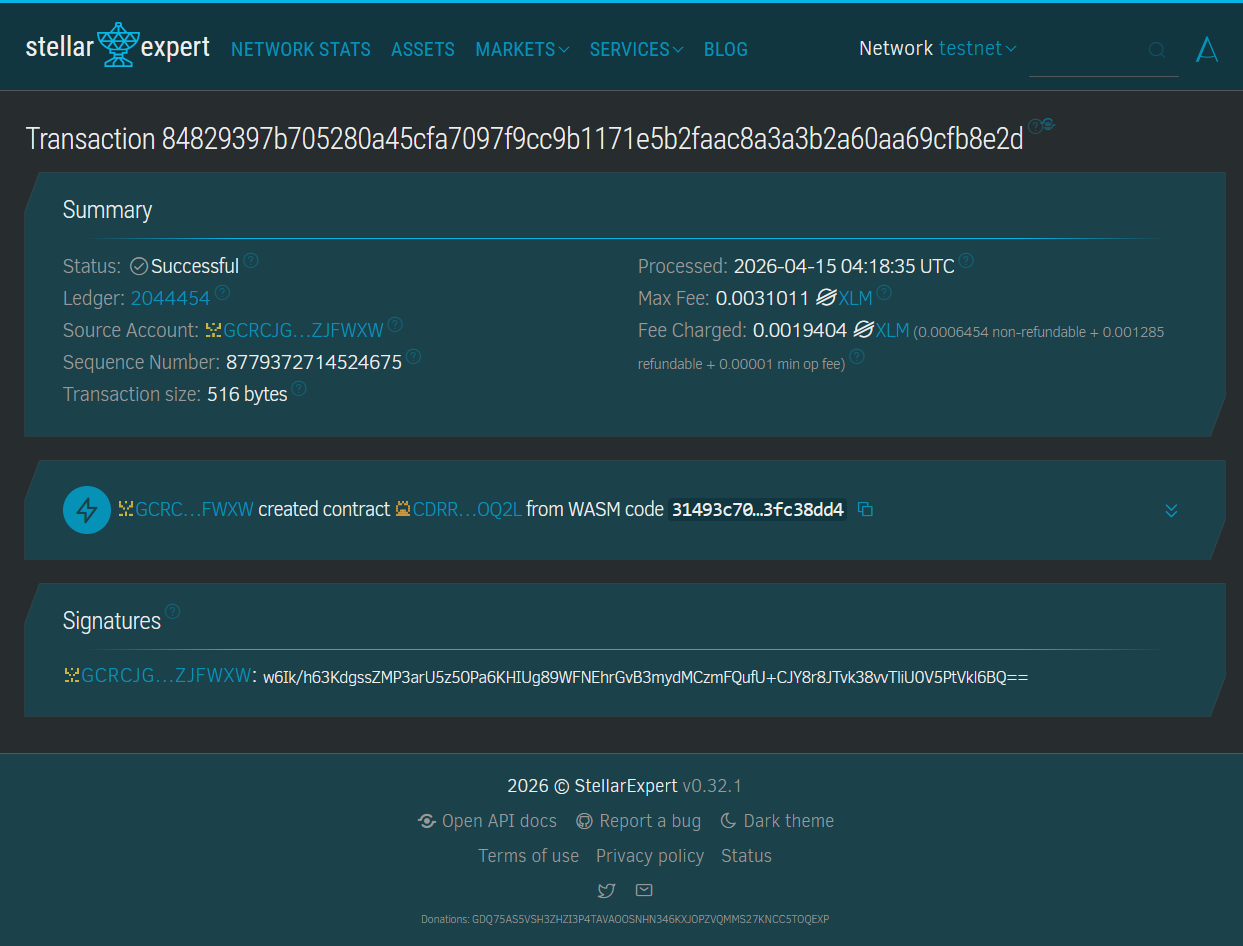
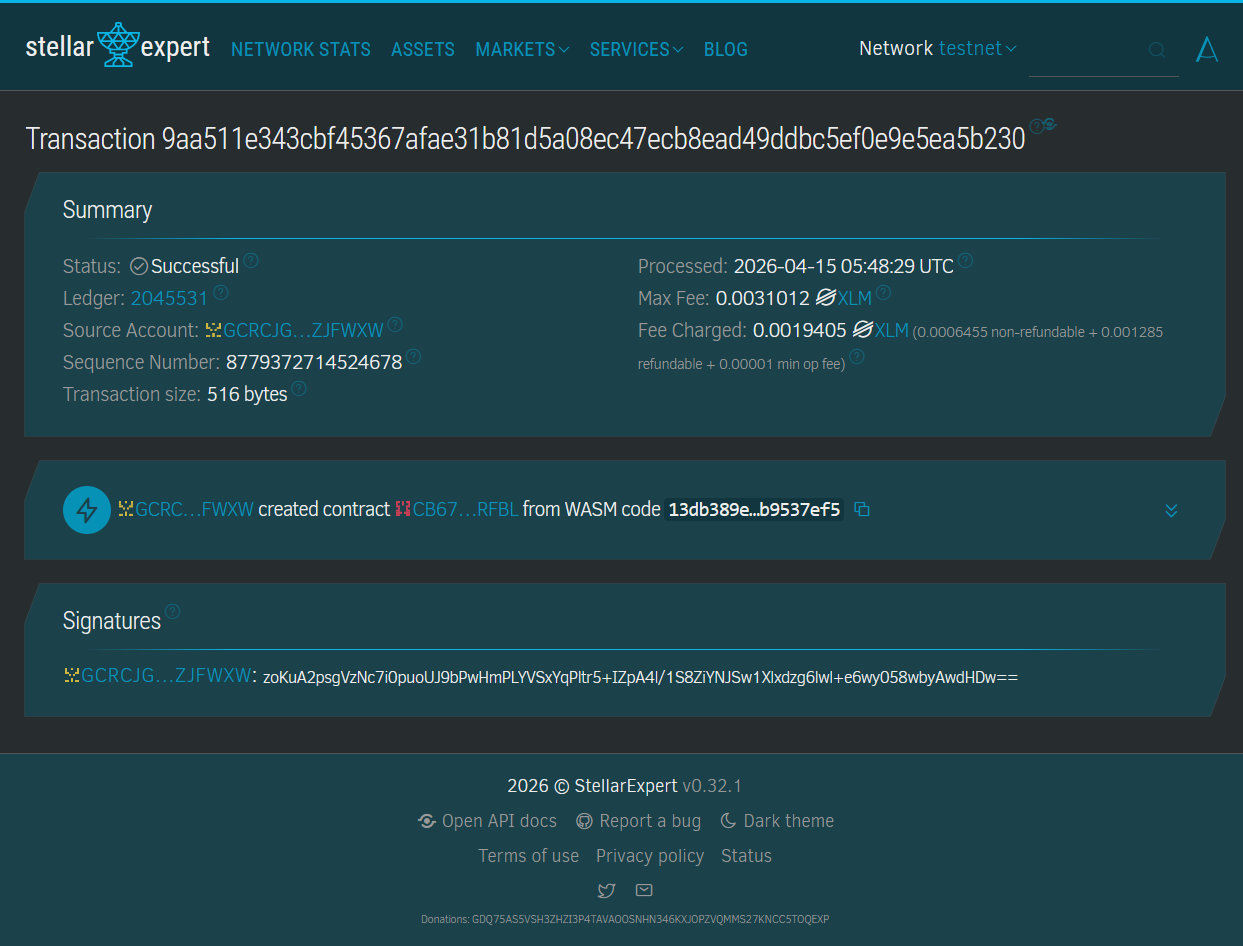
Final: Rewrite README for Decentralized Game Leaderboard
Replace the previous 'Stellar Notes DApp' README with a new project README for Decentralized Game Leaderboard (DGL). Updates include a new project description, key features, technical stack, contract details (contract ID and testnet), future scope, and a Getting Started section with a CLI example for adding scores. Also updates screenshot.png and adds a new screenshot_ui.png to reflect the frontend UI.

diff --git a/README.md b/README.md
@@ -1,118 +1,55 @@
-# Stellar Notes DApp
+# 🏆 Decentralized Game Leaderboard (DGL)
 
-**Stellar Notes DApp** - Blockchain-Based Decentralized Note-Taking System
-
-## Project Description
-
-Stellar Notes DApp is a decentralized smart contract solution built on the Stellar blockchain using Soroban SDK. It provides a secure, immutable platform for managing personal notes directly on the blockchain. The contract ensures that your data is stored transparently and is only manageable through predefined smart contract functions, eliminating reliance on centralized database providers.
-
-The system allows users to create, view, and delete notes, leveraging the efficiency and security of the Stellar network. Each note is uniquely identified and stored within the contract's instance storage, ensuring data persistence and reliability.
-
-## Project Vision
-
-Our vision is to revolutionize personal productivity in the digital age by:
-
-- **Decentralizing Data**: Moving note-taking from centralized servers to a global, distributed blockchain
-- **Ensuring Ownership**: Empowering users to have complete control and ownership over their digital thoughts and information
-- **Guaranteeing Immutability**: Providing a permanent, tamper-proof record of notes that cannot be altered or deleted by third parties
-- **Enhancing Privacy**: Leveraging blockchain security to protect personal information from unauthorized access
-- **Building Trustless Systems**: Creating a platform where data integrity is guaranteed by code, not by company promises
-
-We envision a future where digital information is truly personal and sovereign, empowering individuals with complete autonomy over their digital assets.
-
-## Key Features
-
-### 1. **Simple Note Creation**
-
-- Create notes with just one function call
-- Specify title and content for each note
-- Automated ID generation for unique identification
-- Persistent storage on the Stellar blockchain
-
-### 2. **Efficient Data Retrieval**
-
-- Fetch all stored notes in a single call
-- Structured data representation for easy frontend integration
-- Quick access to your entire note collection
-- Real-time synchronization with the blockchain state
-
-### 3. **Secure Deletion**
-
-- Remove specific notes using their unique IDs
-- Permanent removal from the contract storage
-- Clean and efficient storage management
-- Immediate update of the note list after deletion
-
-### 4. **Transparency and Security**
-
-- View all note activities on the blockchain
-- Blockchain-based verification of all storage actions
-- Immutable records of note creation and deletion
-- Protected against unauthorized modifications
-
-### 5. **Stellar Network Integration**
-
-- Leverages the high speed and low cost of Stellar
-- Built using the modern Soroban Smart Contract SDK
-- Scalable architecture for growing note collections
-- Interoperable with other Stellar-based services
-
-## Contract Details
-
-- Contract Address: CBLU4IUASQ4WUMOXBFLZRSBBLILGOH33GS4LUPKFBCCCMJCDQNMF7G2M
-  ![alt text](screenshot.png)
-
-## Future Scope
-
-### Short-Term Enhancements
-
-1. **Note Encryption**: Support for end-to-end encryption of note content for enhanced privacy
-2. **Category Management**: Add tags and categories to organize notes efficiently
-3. **Rich Text Support**: Extend support beyond plain text to include Markdown and formatted content
-4. **Search Functionality**: Implement advanced search filters for large note collections
-
-### Medium-Term Development
-
-5. **Collaborative Notes**: Implement multi-signature requirements for shared or collaborative note-taking
-   - Shared access for multiple addresses
-   - Permission-based editing and viewing
-   - Version history tracking
-6. **Notification System**: Off-chain bridge to alert users of new updates or shared notes
-7. **Asset Attachment**: Capability to attach digital assets or tokens to specific notes
-8. **Inter-Contract Integration**: Allow other smart contracts to interact with and store data in the notes contract
-
-### Long-Term Vision
-
-9. **Cross-Chain Synchronization**: Extend note storage to multiple blockchain networks
-10. **Decentralized UI Hosting**: Host the frontend on IPFS or similar decentralized platforms
-11. **AI-Powered Summarization**: Optional integration with AI to help users summarize their notes
-12. **Privacy Layers**: Implement zero-knowledge proofs for completely private note content
-13. **DAO Governance**: Community-driven protocol improvements and feature prioritization
-14. **Identity Management**: Integration with decentralized identity (DID) systems for user management
-
-### Enterprise Features
-
-15. **Corporate Documentation**: Adapt the system for secure corporate record-keeping
-16. **Immutable Logging**: Create time-locked logs for audit purposes
-17. **Automated Reporting**: Automatic note triggers for periodic reporting
-18. **Multi-Language Support**: Expand accessibility with internationalization
+**Decentralized Game Leaderboard** — A high-performance, blockchain-based scoring system for modern Web3 games built on Stellar.
 
 ---
 
-## Technical Requirements
+## 📝 Project Description
 
-- Soroban SDK
-- Rust programming language
-- Stellar blockchain network
+**Decentralized Game Leaderboard (DGL)** is a robust smart contract solution built on the **Stellar Blockchain** using the **Soroban SDK**. This project moves traditional game scoring systems from centralized databases to a transparent, immutable, and decentralized environment.
 
-## Getting Started
+Developed as a **Full CRUD (Create, Read, Update, Delete)** application, DGL allows game developers to record player achievements securely. By leveraging Stellar's efficiency, every high score is a permanent record that cannot be manipulated, ensuring fair play and transparency in competitive gaming.
 
-Deploy the smart contract to Stellar's Soroban network and interact with it using the three main functions:
+## 🚀 Key Features
 
-- `create_note()` - Create a new note with a title and content
-- `get_notes()` - Retrieve all stored notes from the contract
-- `delete_note()` - Remove a specific note by its ID
+* **Immutable High Score Creation**: Record player names and scores directly on the Stellar ledger with unique identification.
+* **Real-Time Leaderboard Retrieval**: Fetch the entire leaderboard in a single optimized call, synchronized with the blockchain state.
+* **Dynamic Data Management (Update & Delete)**: Modify player records or remove entries (e.g., for anti-cheat purposes) through verified smart contract calls.
+* **Minimalist Web3 Frontend**: A clean, professional UI built with **TypeScript** and integrated with **Freighter Wallet**.
 
----
+## 🛠 Technical Stack
 
-**Stellar Notes DApp** - Securing Your Thoughts on the Blockchain
+* **Smart Contract**: Rust & Soroban SDK.
+* **Frontend**: Vanilla TypeScript & Vite (Responsive Design).
+* **Blockchain**: Stellar Network (Testnet).
+* **Wallet Integration**: Stellar Freighter API.
+
+## 📊 Contract Details
+
+* **Contract ID**: `CB67TWOEZ3DIZ7MXQDSO5PX2Y4RHAYQ3FMJUJIZCOHHDK62PFWJZRFBL`
+* **Network**: Stellar Testnet
+
+### Screenshots
+
+> **1. Stellar Expert Transaction (Contract Deployment)**
+> ![Stellar Expert](screenshot.png)
+
+> **2. Minimalist Web3 Frontend UI**
+> ![Frontend UI](screenshot_ui.png)
+
+*(Note: Please ensure the image filenames match the ones uploaded in your repository)*
+
+## 🔮 Future Scope
+
+1.  **Global Player Ranking**: Implement an Elo-style ranking system across multiple games.
+2.  **Reward Integration**: Automatically distribute XLM or custom tokens to top-ranked players.
+3.  **Tournament Mode**: Time-locked leaderboards for seasonal gaming events.
+4.  **Anti-Cheat Layer**: Integration with ZK-proofs to verify score authenticity.
+
+## 🏁 Getting Started
+
+To interact with the contract via CLI, use the following commands:
+
+**Add a new score:**
+```bash
+stellar contract invoke --id CB67TWOEZ3DIZ7MXQDSO5PX2Y4RHAYQ3FMJUJIZCOHHDK62PFWJZRFBL --source YOUR_ACCOUNT --network testnet -- add_score --player_name "Iqi" --score 9999
